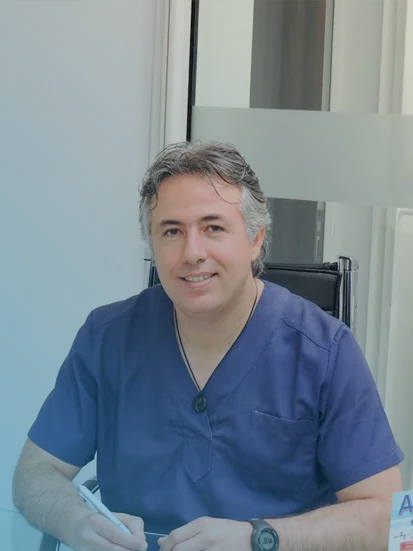
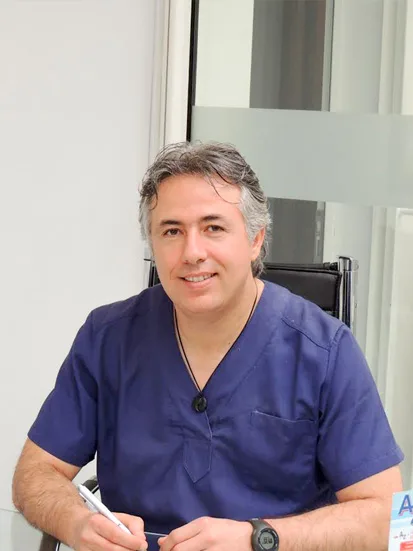
Oh la dinguerie

diff --git a/app/dr/[name]/page.jsx b/app/dr/[name]/page.jsx
@@ -1,10 +1,7 @@
 import { notFound } from "next/navigation";
-import Image from "next/image";
 
 async function getData() {
-  const res = await fetch(`${process.env.API_URL}/users`, {
-    cache: "no-cache",
-  });
+  const res = await fetch(`${process.env.API_URL}/users`);
 
   if (!res.ok) {
     notFound();
@@ -33,12 +30,10 @@ export default async function Profile({ params }) {
 
   if (!user) return notFound();
 
-  console.log(user);
-
   return (
     <div className="flex flex-col w-full h-auto">
-      <section className="flex flex-col lg:flex-row w-full h-auto">
-        <div className="flex flex-col items-left text-center lg:text-left justify-start w-full lg:w-2/5 h-auto gap-4 p-4 py-6 lg:p-16">
+      <section className="flex flex-col lg:flex-row w-full h-fit">
+        <div className="flex flex-col items-left text-center lg:text-left justify-start w-full lg:w-2/5 h-auto gap-4 py-8 lg:p-4">
           <div className="flex flex-col w-full h-auto gap-2">
             <h1 className="text-blue-950 text-4xl lg:text-5xl mx-auto lg:mx-0 font-semibold">
               {user?.name}
@@ -51,7 +46,7 @@ export default async function Profile({ params }) {
             <img
               alt={user?.name}
               src={user?.main_image}
-              width={"100%"}
+              width={"90%"}
               height={"auto"}
               className="object-contain rounded-xl shadow-xl mx-auto lg:mx-0"
             />
@@ -66,7 +61,10 @@ export default async function Profile({ params }) {
               return (
                 <li key={index}>
                   <div className="flex flex-row items-center justify-start w-full h-auto gap-2">
-                    <div className="flex flex-col items-center shadow-2xl justify-center bg-blue-950 rounded-full">
+                    <div className="flex flex-col items-center relative shadow-2xl justify-center bg-blue-950 rounded-full">
+                      {index !== user?.timeline.length - 1 && (
+                        <div className="w-0.5 h-full bottom-[calc(-100%-10px)] left-1/2 absolute bg-cil-100" />
+                      )}
                       <p className="flex items-center justify-center p-5 text-cil-100 w-6 h-6 text-base font-semibold">
                         {index + 1}
                       </p>

diff --git a/app/page.jsx b/app/page.jsx
@@ -33,7 +33,7 @@ export default function Home() {
         </div>
       </section>
 
-      <section className="px-12 w-full pt-12 lg:pt-20 flex flex-col items-start justify-evenly py-20">
+      <section className="px-6 lg:px-12 w-full pt-12 lg:pt-20 flex flex-col items-start justify-evenly py-20">
         <h2 className="text-blue-950 text-4xl lg:text-5xl mx-auto lg:mx-0 font-semibold border-b-4 pb-2 border-b-cil-100 mb-12">
           L'Équipe
         </h2>
@@ -100,7 +100,7 @@ export default function Home() {
         </div>
       </section>
 
-      <section className="px-12 border-t-0 w-full bg-gradient-to-r from-blue-800 to-blue-950 lg:pt-20 flex flex-col items-start justify-evenly py-12 ">
+      <section className="px-6 lg:px-12 border-t-0 w-full bg-gradient-to-r from-blue-800 to-blue-950 lg:pt-20 flex flex-col items-start justify-evenly py-12 ">
         <h2 className="text-white text-4xl lg:text-5xl mx-auto lg:mx-0 font-semibold border-b-4 pb-2 border-b-cil-100 mb-12">
           Les Services
         </h2>
@@ -188,10 +188,7 @@ export default function Home() {
         alt=""
       />
 
-      <section
-        tabIndex={3}
-        className="px-12 border-t-0 w-full pt-12 lg:pt-20 flex flex-col items-start justify-evenly py-20"
-      >
+      <section className="px-6 lg:px-12 border-t-0 w-full pt-12 lg:pt-20 flex flex-col items-start justify-evenly py-20">
         <h2 className="text-blue-950 text-4xl lg:text-5xl mx-auto lg:mx-0 font-semibold border-b-4 pb-2 border-b-cil-100 mb-12">
           La Direction
         </h2>

diff --git a/components/Navbar.jsx b/components/Navbar.jsx
@@ -9,6 +9,8 @@ export default () => {
   const [isOpen, setIsOpen] = useState(false);
   const pathname = usePathname();
 
+  console.log(pathname);
+
   return (
     <nav className="z-50 sticky top-0 w-full md:max-w-[2400px] h-12 md:h-16 md:flex md:items-center border-b-0 md:border-b-2 md:border-b-cil-100  md:justify-between bg-white/40 shadow-md backdrop-blur-xl">
       <div className="z-40 flex border-b-2 border-b-cil-100 md:border-none relative py-4 bg-transparent h-full items-center justify-between px-4">
@@ -50,10 +52,10 @@ export default () => {
         </li>
         <li
           className={`flex items-center text-left h-full px-4 py-2 rounded-md lg:py-0 lg:rounded-none ${
-            pathname === "/galerie" ? "bg-blue-800 text-white" : ""
+            pathname.split("/")[1] === "dr" ? "bg-blue-800 text-white" : ""
           }`}
         >
-          <Link scroll={false} className="text-sm" href="#a-propos">
+          <Link scroll={false} className="text-sm" href="/dr">
             Notre Équipe
           </Link>
         </li>

diff --git a/components/Footer.jsx b/components/Footer.jsx
@@ -31,7 +31,7 @@ export default () => {
             <a target={"_blank"} href={"https://www.instagram.com/dr.alaouii/"}>
               <p className="flex items-center text-sm font-semibold">
                 <Image
-                  src="/icons/ig.svg"
+                  src="/logo/instagram.svg"
                   width={20}
                   height={20}
                   className="object-contain mr-2"
@@ -43,7 +43,7 @@ export default () => {
             <a target={"_blank"} href={"https://www.instagram.com/dr.chraibi/"}>
               <p className="flex items-center text-sm font-semibold">
                 <Image
-                  src="/icons/ig.svg"
+                  src="/logo/instagram.svg"
                   width={20}
                   height={20}
                   alt={"Instagram Logo"}

diff --git a/app/dr/page.jsx b/app/dr/page.jsx
@@ -1,0 +1,11 @@
+const metadata = {
+  title: `Notre Équipe - Clinique Dentaire CIL`,
+};
+
+export default function Dr() {
+  return (
+    <div>
+      <h1>Notre Équipe</h1>
+    </div>
+  );
+}
